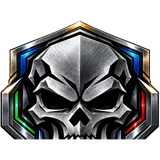
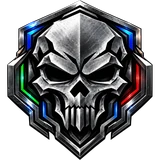
Marca pequena: escudo com a caveira enviado pelo usuário
Claude-Session: https://claude.ai/code/session_01RTdZrDRrHZ8WHJ9BmNReyG

diff --git a/src/components/brand.tsx b/src/components/brand.tsx
@@ -3,7 +3,7 @@ import { cn } from "@/lib/utils";
 
 export const BRAND_NAME = "Missão Alpha-01";
 
-/** Marca reduzida (a caveira do emblema), para tamanhos pequenos: menu, topo do celular. */
+/** Marca reduzida (o escudo com a caveira), para tamanhos pequenos: menu, topo do celular. */
 export function BrandMark({ className }: { className?: string }) {
   return (
     <img
@@ -13,7 +13,7 @@ export function BrandMark({ className }: { className?: string }) {
       width={80}
       height={80}
       decoding="async"
-      className={cn("size-8 shrink-0 object-contain", className)}
+      className={cn("size-9 shrink-0 object-contain", className)}
     />
   );
 }
